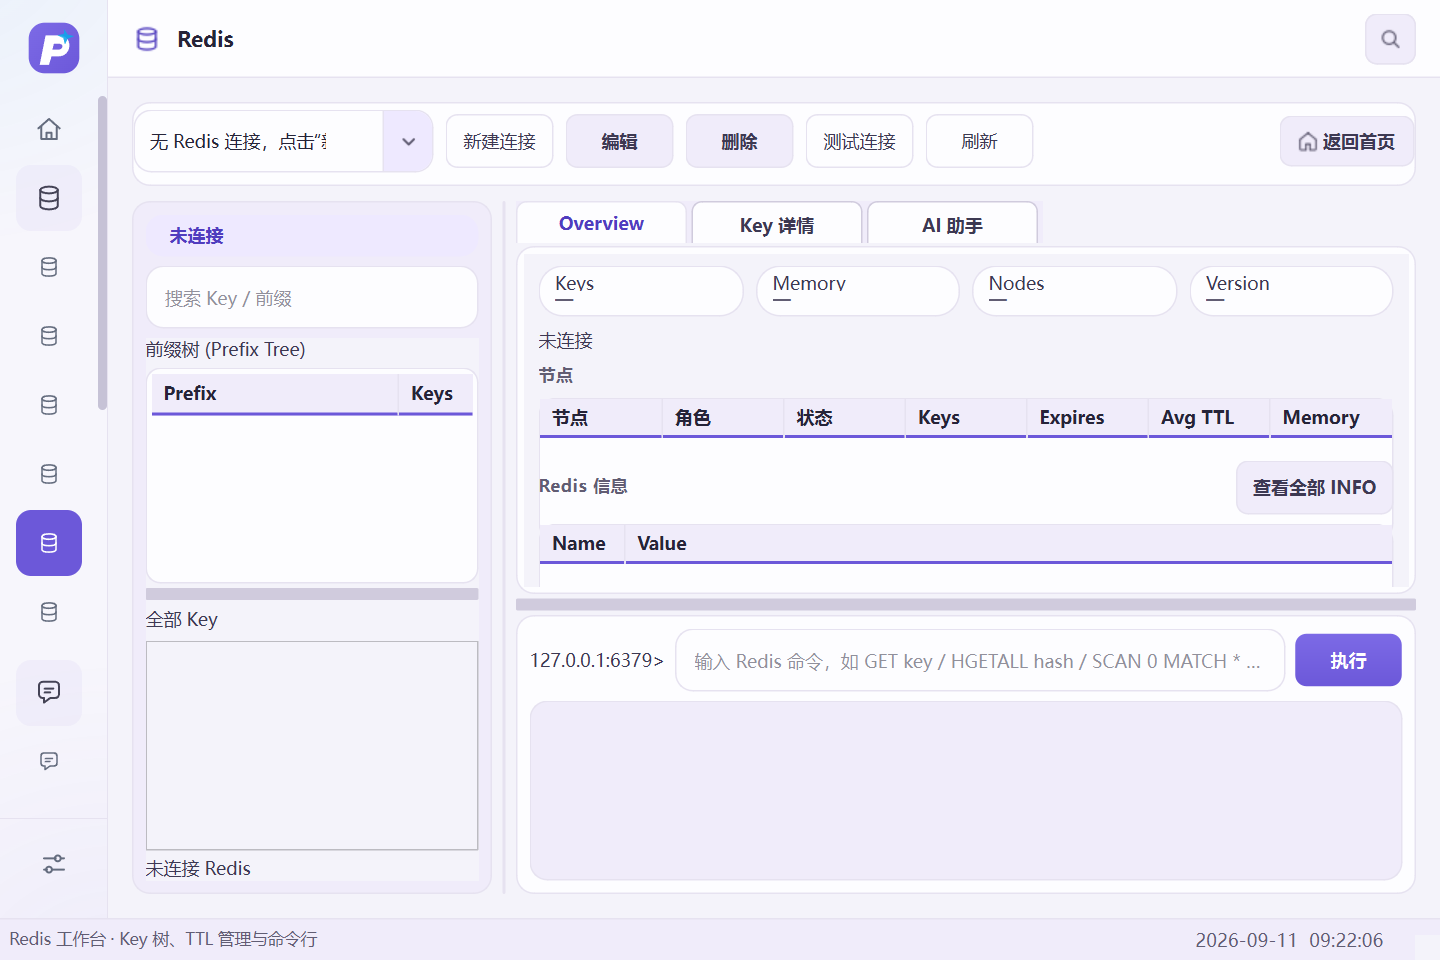
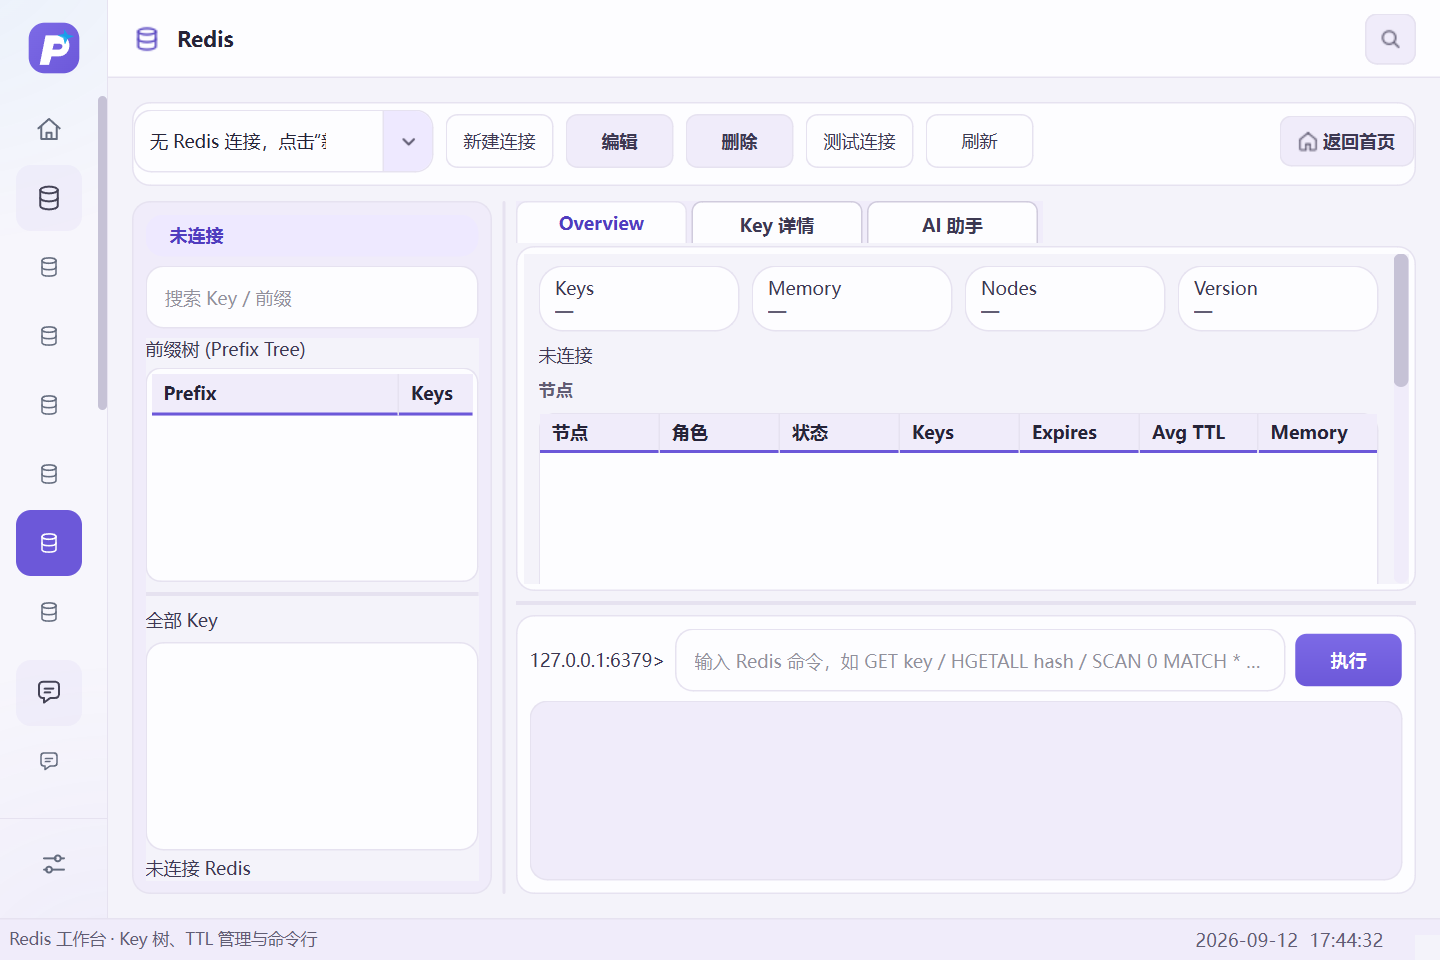
fix(ui): keep Redis value actions clear in compact detail tabs

diff --git a/docs/ui/prism-implementation-2026-09/shell/index.html b/docs/ui/prism-implementation-2026-09/shell/index.html
@@ -145,6 +145,14 @@ article[hidden]{display:none}@media(max-width:800px){main{grid-template-columns:
 <a href="nav-22-960-640-dpr-200-font-16.png" target="_blank"><img src="nav-22-960-640-dpr-200-font-16.png" loading="lazy" alt="Redis · DPR 2 · 16px字体 960 × 640"></a>
 <div class="caption"><h2>Redis · DPR 2 · 16px字体</h2><p>960 × 640 · 已记录网页就绪与选中状态</p>
 <a href="nav-22-960-640-dpr-200-font-16.json" target="_blank">查看运行记录</a></div></article>
+<article data-label="Redis · 页签 2 · 示例数据" data-checked="true">
+<a href="nav-22-960-640-tab-1-sample.png" target="_blank"><img src="nav-22-960-640-tab-1-sample.png" loading="lazy" alt="Redis · 页签 2 · 示例数据 960 × 640"></a>
+<div class="caption"><h2>Redis · 页签 2 · 示例数据</h2><p>960 × 640 · 已记录网页就绪与选中状态</p>
+<a href="nav-22-960-640-tab-1-sample.json" target="_blank">查看运行记录</a></div></article>
+<article data-label="Redis · 页签 2" data-checked="true">
+<a href="nav-22-960-640-tab-1.png" target="_blank"><img src="nav-22-960-640-tab-1.png" loading="lazy" alt="Redis · 页签 2 960 × 640"></a>
+<div class="caption"><h2>Redis · 页签 2</h2><p>960 × 640 · 已记录网页就绪与选中状态</p>
+<a href="nav-22-960-640-tab-1.json" target="_blank">查看运行记录</a></div></article>
 <article data-label="Redis" data-checked="true">
 <a href="nav-22-960-640.png" target="_blank"><img src="nav-22-960-640.png" loading="lazy" alt="Redis 960 × 640"></a>
 <div class="caption"><h2>Redis</h2><p>960 × 640 · 已记录网页就绪与选中状态</p>
@@ -165,6 +173,10 @@ article[hidden]{display:none}@media(max-width:800px){main{grid-template-columns:
 <a href="nav-23-960-640-dpr-200-font-16.png" target="_blank"><img src="nav-23-960-640-dpr-200-font-16.png" loading="lazy" alt="MongoDB · DPR 2 · 16px字体 960 × 640"></a>
 <div class="caption"><h2>MongoDB · DPR 2 · 16px字体</h2><p>960 × 640 · 已记录网页就绪与选中状态</p>
 <a href="nav-23-960-640-dpr-200-font-16.json" target="_blank">查看运行记录</a></div></article>
+<article data-label="MongoDB · 页签 3" data-checked="true">
+<a href="nav-23-960-640-tab-2.png" target="_blank"><img src="nav-23-960-640-tab-2.png" loading="lazy" alt="MongoDB · 页签 3 960 × 640"></a>
+<div class="caption"><h2>MongoDB · 页签 3</h2><p>960 × 640 · 已记录网页就绪与选中状态</p>
+<a href="nav-23-960-640-tab-2.json" target="_blank">查看运行记录</a></div></article>
 <article data-label="MongoDB" data-checked="true">
 <a href="nav-23-960-640.png" target="_blank"><img src="nav-23-960-640.png" loading="lazy" alt="MongoDB 960 × 640"></a>
 <div class="caption"><h2>MongoDB</h2><p>960 × 640 · 已记录网页就绪与选中状态</p>

diff --git a/panels/db_redis_panel.py b/panels/db_redis_panel.py
@@ -12,7 +12,7 @@ import time
 from PyQt6.QtCore import Qt, QThread, QTimer, pyqtSignal
 from PyQt6.QtWidgets import (
     QComboBox, QDialog, QFormLayout, QFrame, QHBoxLayout, QInputDialog, QLabel,
-    QLineEdit, QListWidget, QListWidgetItem, QPlainTextEdit, QPushButton, QSplitter,
+    QLineEdit, QListWidget, QListWidgetItem, QPlainTextEdit, QPushButton, QScrollArea, QSplitter,
     QTabWidget, QTableWidget, QTableWidgetItem, QTreeWidget, QTreeWidgetItem,
     QVBoxLayout, QWidget, QHeaderView,
 )
@@ -228,6 +228,8 @@ class RedisWorkbenchPanel(QWidget):
 
         # 内部垂直 Splitter：上方 Prefix 树，下方 Key 列表
         self.left_split = QSplitter(Qt.Orientation.Vertical)
+        self.left_split.setHandleWidth(16)
+        self.left_split.setProperty('prismGutter', True)
 
         # 上半部分：Prefix 树
         tree_container = QWidget()
@@ -270,6 +272,7 @@ class RedisWorkbenchPanel(QWidget):
         list_l.addLayout(breadcrumb_bar)
 
         self.key_list = QListWidget()
+        self.key_list.setObjectName('redis-key-list')
         self.key_list.itemClicked.connect(self._on_key_list_clicked)
         list_l.addWidget(self.key_list, 1)
         self.load_more_btn = QPushButton()
@@ -293,6 +296,12 @@ class RedisWorkbenchPanel(QWidget):
 
         # ── 右侧区域 ───────────────────────────────────────────────────────
         self.side_tabs = QTabWidget()
+        def add_scrollable_tab(content, title):
+            scroll = QScrollArea()
+            scroll.setFrameShape(QFrame.Shape.NoFrame)
+            scroll.setWidgetResizable(True)
+            scroll.setWidget(content)
+            self.side_tabs.addTab(scroll, title)
 
         overview = QWidget()
         ov_l = QVBoxLayout(overview)
@@ -338,7 +347,7 @@ class RedisWorkbenchPanel(QWidget):
         self.info_table.horizontalHeader().setSectionResizeMode(0, QHeaderView.ResizeMode.ResizeToContents)
         self.info_table.horizontalHeader().setSectionResizeMode(1, QHeaderView.ResizeMode.Stretch)
         ov_l.addWidget(self.info_table, 1)
-        self.side_tabs.addTab(overview, 'Overview')
+        add_scrollable_tab(overview, 'Overview')
 
         # Tab 1：Key 详情
         detail = QWidget()
@@ -439,7 +448,7 @@ class RedisWorkbenchPanel(QWidget):
             actions.addWidget(w)
         actions.addStretch(1)
         det_l.addLayout(actions)
-        self.side_tabs.addTab(detail, 'Key 详情')
+        add_scrollable_tab(detail, 'Key 详情')
 
         # Tab 2：AI 助手
         ai_page = QWidget()
@@ -463,7 +472,7 @@ class RedisWorkbenchPanel(QWidget):
         ai_send.addStretch(1)
         ai_send.addWidget(self.ai_send_btn)
         ai_l.addLayout(ai_send)
-        self.side_tabs.addTab(ai_page, 'AI 助手')
+        add_scrollable_tab(ai_page, 'AI 助手')
 
         # 底部命令行（Console 只放右侧下方）
         bottom = QFrame()
@@ -491,6 +500,8 @@ class RedisWorkbenchPanel(QWidget):
 
         # 右侧上下垂直 Splitter：上面是详情页签，下面是控制台
         self._bottom_split = QSplitter(Qt.Orientation.Vertical)
+        self._bottom_split.setHandleWidth(16)
+        self._bottom_split.setProperty('prismGutter', True)
         self._bottom_split.addWidget(self.side_tabs)
         self._bottom_split.addWidget(bottom)
         self._bottom_split.setStretchFactor(0, 3)

diff --git a/scripts/diagnostics/prism_shell_preview.py b/scripts/diagnostics/prism_shell_preview.py
@@ -45,6 +45,8 @@ def main(args):
                     panel.section_picker.setCurrentIndex(args.tab)
                 elif hasattr(panel, 'tabs'):
                     panel.tabs.setCurrentIndex(args.tab)
+                elif hasattr(panel, 'side_tabs'):
+                    panel.side_tabs.setCurrentIndex(args.tab)
                 else:
                     raise ValueError('This preview page has no supported tab selector')
             if args.sample and args.nav == 7:
@@ -52,6 +54,10 @@ def main(args):
                     {'id': 'preview-a', 'name': '示例 · 日常助手', 'model': 'demo-chat', 'enabled': False},
                     {'id': 'preview-b', 'name': '示例 · 文档校对', 'model': 'demo-review', 'enabled': False},
                 ]})
+            if args.sample and args.nav == 22:
+                panel.key_name.setText('示例 · preview:settings')
+                panel.key_meta.setText('仅供界面检查的示例值，不连接 Redis')
+                panel._render_value('string', '{"theme":"calm","preview":true}')
             window.resize(args.width, args.height)
             window._layout_controller.force(args.width, args.height)
             QTimer.singleShot(1000, inspect_chrome)
@@ -78,14 +84,14 @@ def main(args):
                           status_height=window.statusBar().height(), collapsed=args.collapsed)
             if args.tab is not None:
                 actual_tab = (page.sections_stack.currentIndex() if args.nav == 7
-                              else page.tabs.currentIndex())
+                              else (page.tabs if hasattr(page, 'tabs') else page.side_tabs).currentIndex())
                 result.update(tab=args.tab, actual_tab=actual_tab)
             folder = root / 'docs/ui/prism-implementation-2026-09/shell'
             folder.mkdir(parents=True, exist_ok=True)
             name = f'nav-{args.nav}-{args.width}-{args.height}' + ('-collapsed' if args.collapsed else '')
             if args.tab is not None:
                 name += f'-tab-{args.tab}'
-            if args.sample and args.nav == 7:
+            if args.sample and args.nav in (7, 22):
                 name += '-sample'
                 result['sample'] = True
             if args.expected_dpr is not None:

diff --git a/tests/test_prism_database_layout.py b/tests/test_prism_database_layout.py
@@ -49,6 +49,42 @@ class DatabaseLayoutTests(unittest.TestCase):
                     panel.deleteLater()
                     self.app.processEvents()
 
+    def test_redis_low_detail_scroll_keeps_value_actions_and_command(self):
+        from PyQt6.QtCore import QPoint, QRect
+        from panels.db_redis_panel import RedisWorkbenchPanel
+        with patch.object(RedisWorkbenchPanel, '_reload_connections'):
+            panel = RedisWorkbenchPanel('zh')
+        try:
+            panel.resize(856, 528)
+            panel.apply_layout_mode('narrow', True)
+            panel.show()
+            panel.side_tabs.setCurrentIndex(1)
+            sample = '\n'.join(f'Preview value {i}' for i in range(50))
+            panel._render_value('string', sample)
+            panel.cmd_input.setText('GET preview-only')
+            for _ in range(5):
+                self.app.processEvents()
+            panel.resize(856, 528)
+            scroll = panel.side_tabs.widget(1)
+            self.assertGreater(scroll.verticalScrollBar().maximum(), 0)
+            self.assertGreaterEqual(panel.value_tabs.height(), 280)
+            self.assertGreater(panel.copy_val_btn.y(), panel.value_tabs.geometry().bottom())
+            scroll.ensureWidgetVisible(panel.copy_val_btn)
+            self.app.processEvents()
+            rect = QRect(panel.copy_val_btn.mapTo(scroll.viewport(), QPoint()), panel.copy_val_btn.size())
+            self.assertTrue(scroll.viewport().rect().contains(rect))
+            self.assertEqual((panel.width(), panel.height()), (856, 528))
+            panel.side_tabs.setCurrentIndex(2)
+            panel.side_tabs.setCurrentIndex(1)
+            self.assertEqual(panel.cmd_input.text(), 'GET preview-only')
+            self.assertIn('Preview value 49', panel.string_value.toPlainText())
+            self.assertEqual(panel._bottom_split.handle(1).height(), 16)
+            self.assertEqual(panel.left_split.handle(1).height(), 16)
+        finally:
+            panel.close()
+            panel.deleteLater()
+            self.app.processEvents()
+
 
 if __name__ == '__main__':
     unittest.main()

diff --git a/docs/ui/prism-implementation-2026-09/STATUS.md b/docs/ui/prism-implementation-2026-09/STATUS.md
@@ -2,6 +2,16 @@
 
 更新：2026-09-12。这是进行中的实施记录，不是完整验收结论。
 
+## 2026-09-12 Redis详情滚动与MongoDB Shell复核
+
+本批基于 `e216da7db8227de17981a12a8d3cf89c3b0cd6b7`。960×640的Redis详情页复现值区与底部操作重叠：值页签要求最小280，但右侧上半区更矮，父布局强行压缩后按钮绘入值区。现在Overview、Key详情和AI内容各自在原页签内滚动，保留原页签顺序与右下控制台；值区仍至少280，操作可通过滚动到达。左右两条垂直分隔统一16细线，Key列表接入圆角/选中样式。所有原按钮信号、编码切换、TTL与命令规则保持。
+
+隔离测试：`tests.test_prism_database_layout` 2项通过，新增50行示例值、值区高度、按钮与值区不重叠、滚动后复制按钮完全进入视口、AI/详情切换后命令和文本保留；原测试覆盖Redis与MongoDB的页签和输入保留。`tests.test_redis_panel_layout` 2项通过，确认右下控制台及主分栏层级保留；`tests.test_redis_overview` 12项通过；`tests.test_nosql_command_guard` 2项通过。共18项通过，均退出0，不连接真实数据库。
+
+最新图：[Redis总览](shell/nav-22-960-640.png)、[空详情](shell/nav-22-960-640-tab-1.png)、[示例值](shell/nav-22-960-640-tab-1-sample.png)、[MongoDB Shell](shell/nav-23-960-640-tab-2.png)。示例值和Shell已查看，主窗口大小、实际侧栏选中和目标页签记录通过；示例数据只用于隔离诊断。详情操作在内容底部，需要向下滚动，已由实际控件回归证明可达。
+
+MongoDB本批没有改正式代码。Redis已有DPR截图属于本修复前的历史检查，不能代表新详情滚动布局的DPI验收。完整目标中的其他数据类型、长内容/错误/执行取消、实际跨屏及性能检查继续保留。`resources/build_info.json`及五份原阶段报告未纳入本批。
+
 ## 2026-09-12 四档DPR模拟检查
 
 本批基于 `37edb53005ea3f6ba5a22da3c8cd5bb3dedaa2a9`，仅增加诊断、测试适配和截图，不改正式启动或显示策略。新增 `scripts/diagnostics/prism_dpi_matrix.py`：先在子进程测量本机原始DPR（本次1.5），再按目标/原始比例设置仅该子进程的 `QT_SCALE_FACTOR`。Qt文档说明该变量适合测试，其结果会乘上原生DPR，因此不能简单把变量值当作最终缩放比例。[Qt High DPI测试说明](https://doc.qt.io/qt-6/highdpi.html#testing)
